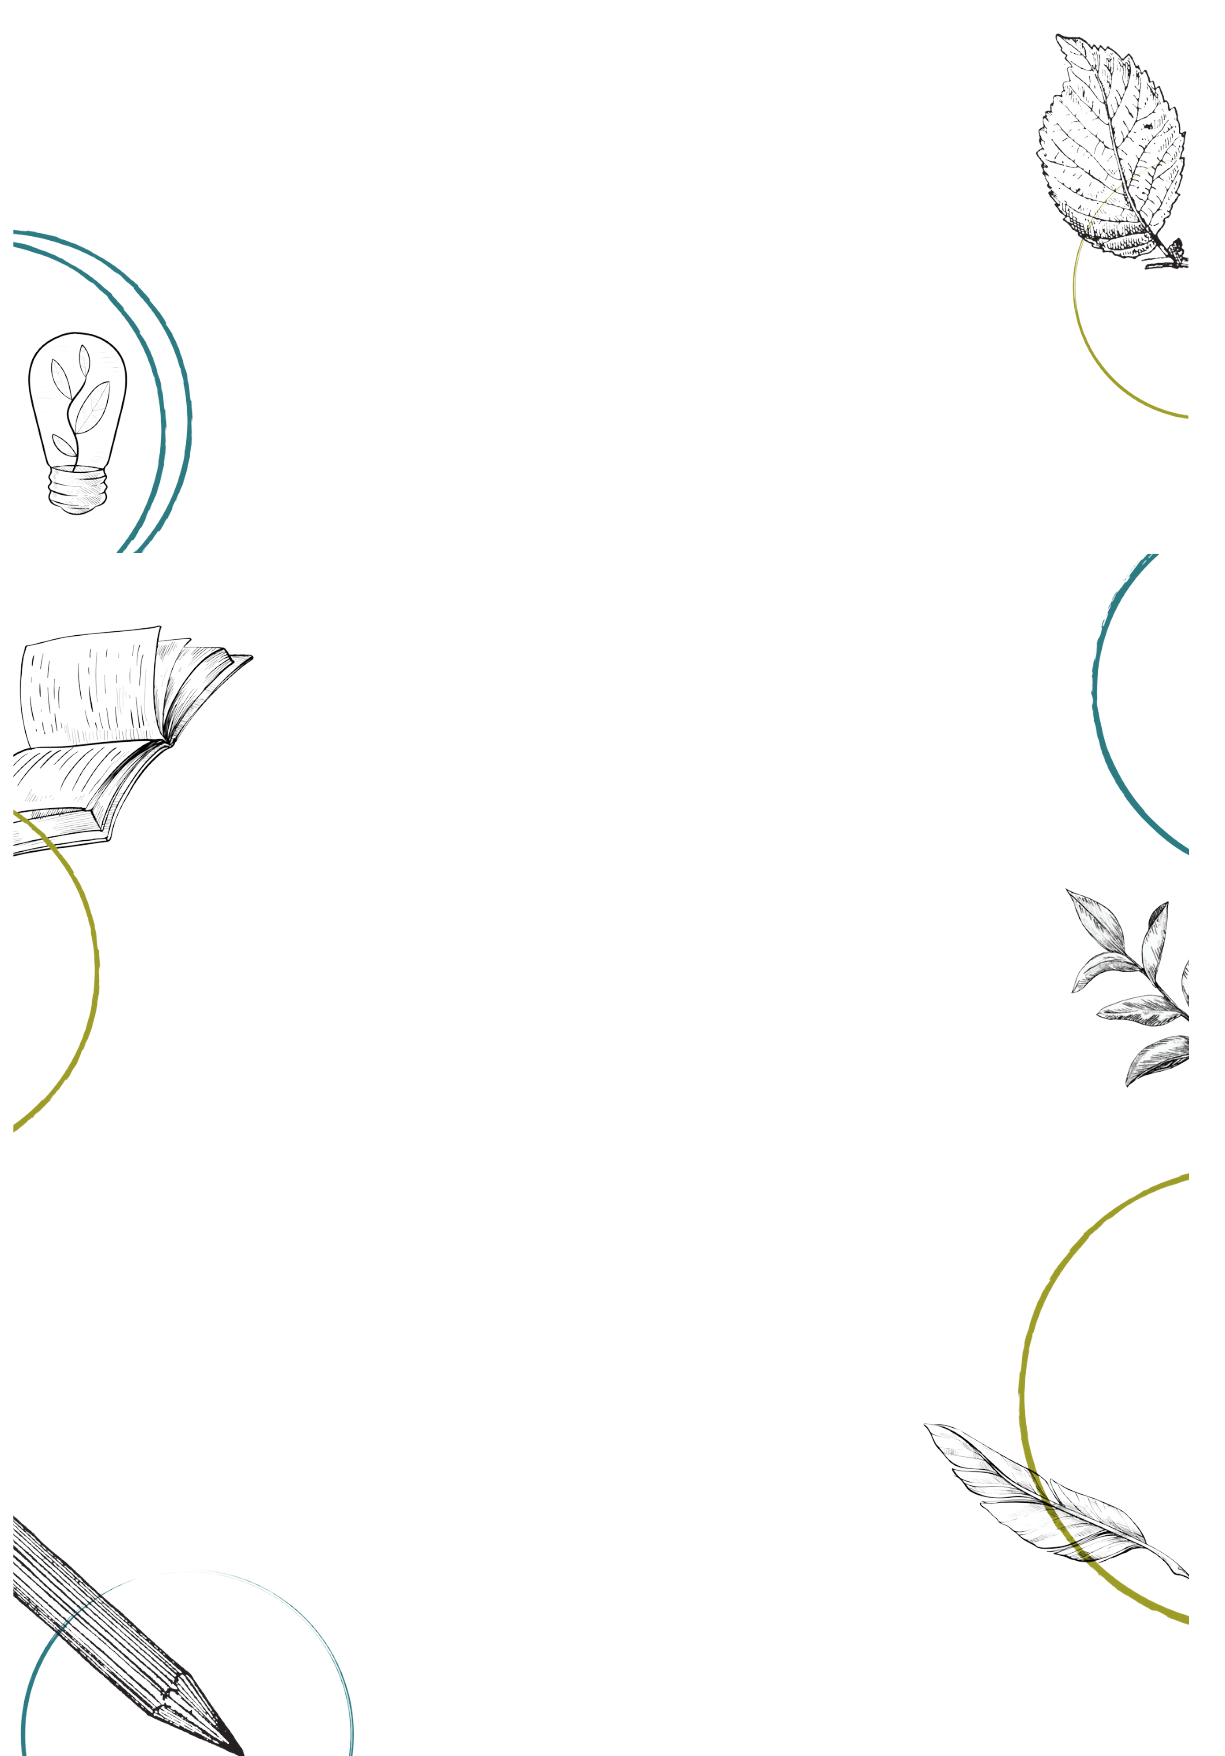
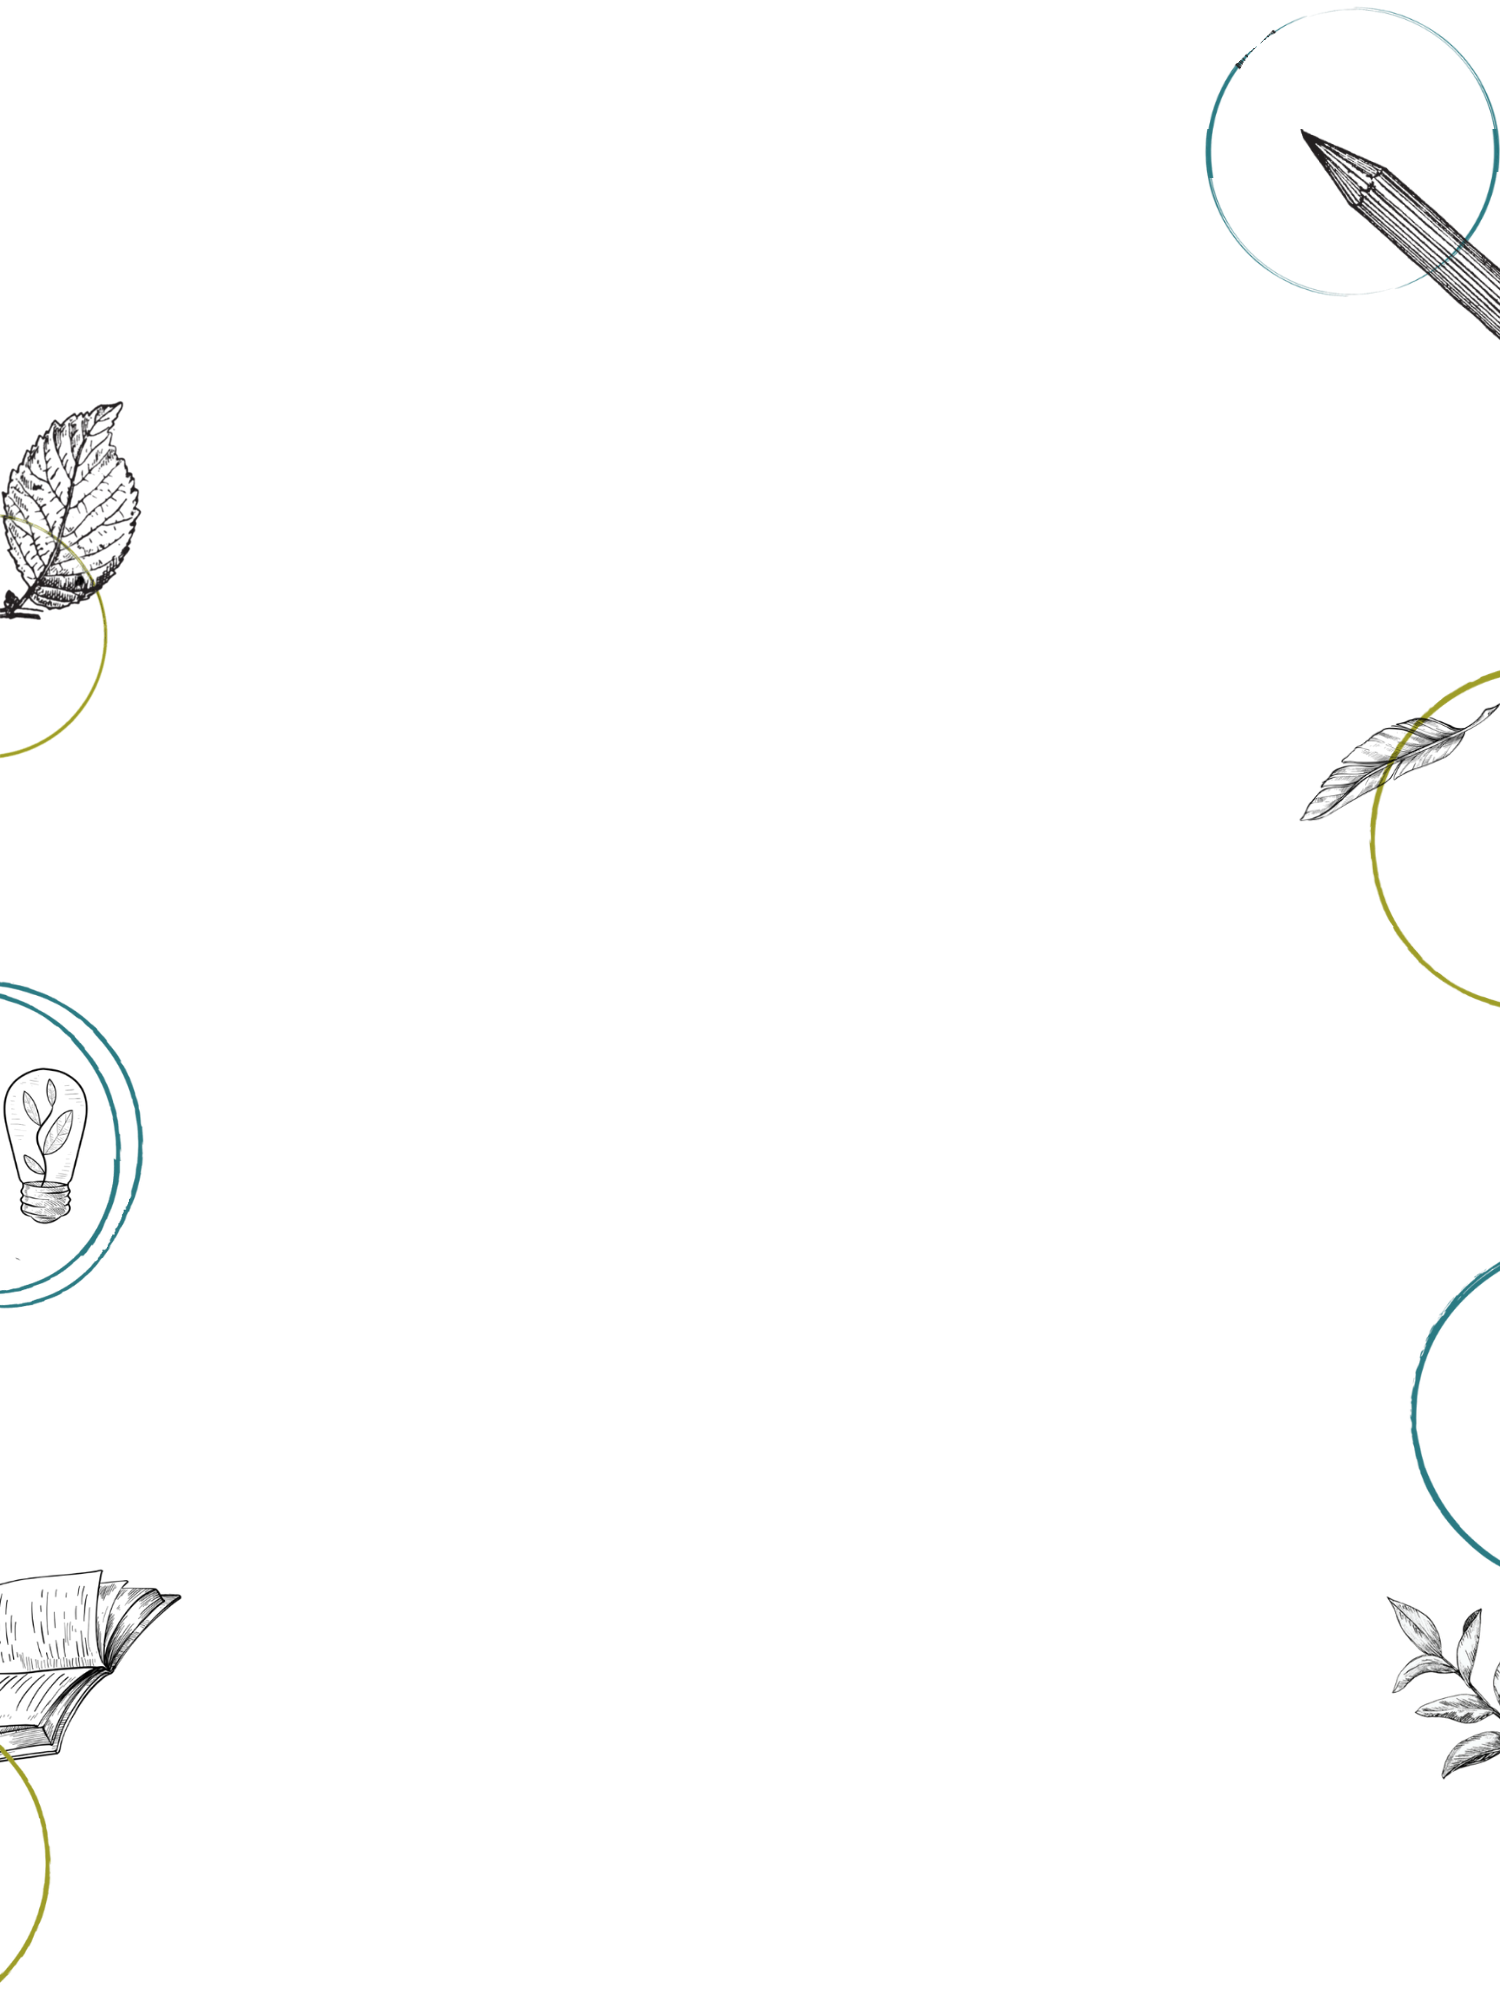
workshops background made smaller and updated

diff --git a/src/components/WorkshopsPage/Workshops.scss b/src/components/WorkshopsPage/Workshops.scss
@@ -9,7 +9,7 @@
   background-image: url("/workshops-main-background.png");
   background-repeat: no-repeat;
   background-position: center;
-  background-size: cover;
+  background-size: contain;
 }
 
 
